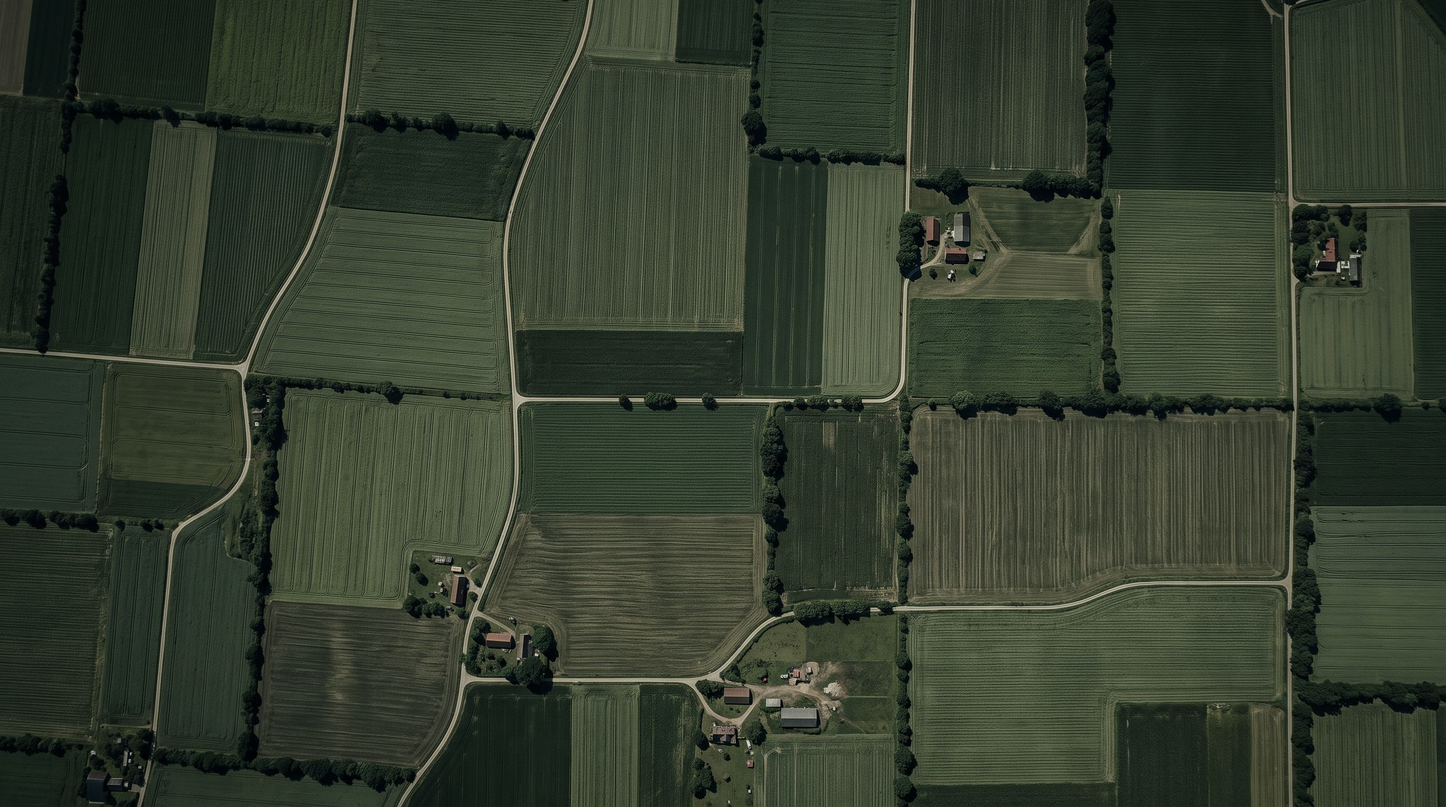
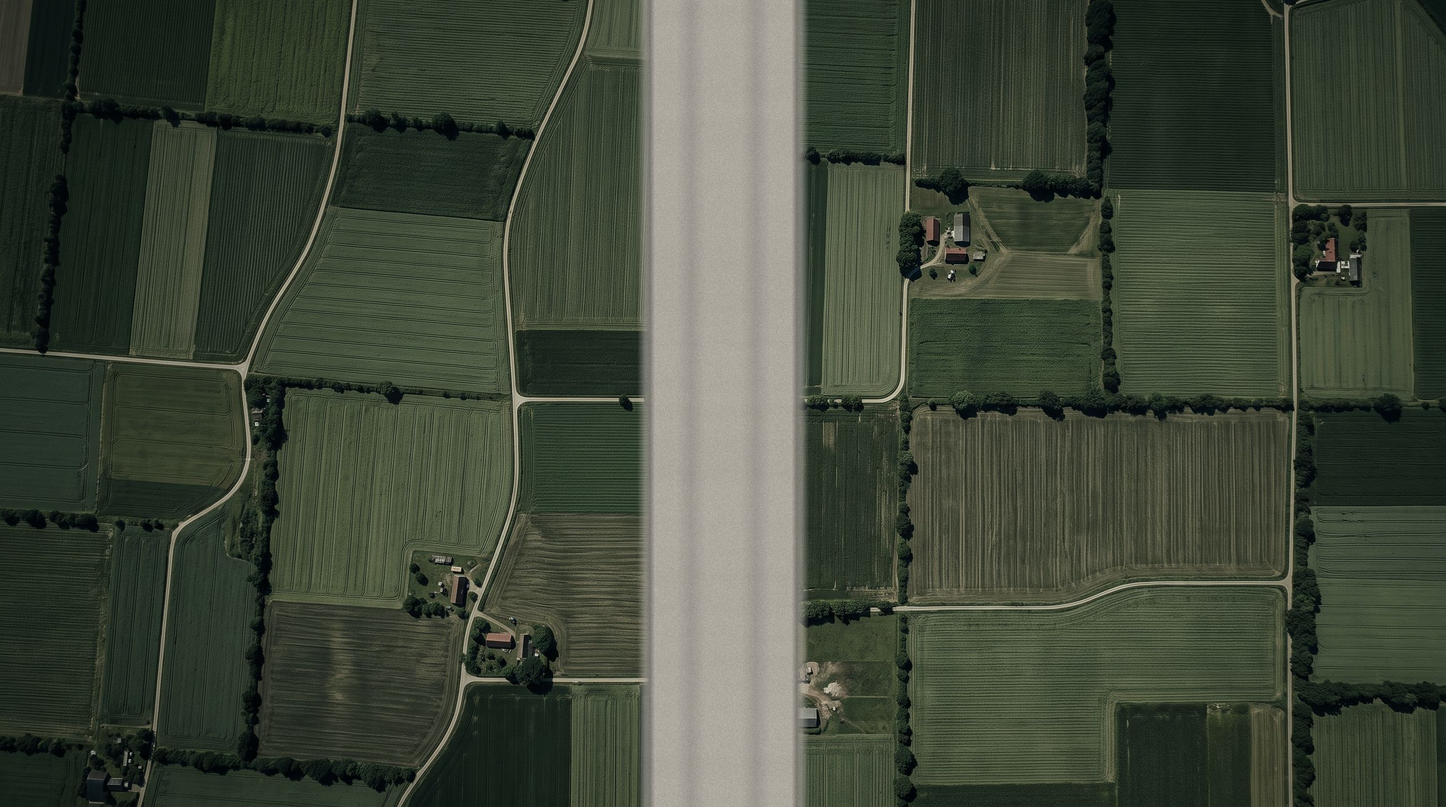
Field gets a centre road; the truck drives off-screen before the plane
Owner feedback on the road-to-flight handoff: the truck should arrive
at the field onto an actual road and exit by driving off the bottom
edge of the screen - a physical exit, not the previous shrink-and-fade
- with the plane entering only after it is gone.

- bg-field regenerated with a pale rural road painted down the centre:
  sampled dirt-road palette, soft shoulders, worn edge lines, lane
  wear, length-wise streaks; 260px in image space so it renders wider
  than the truck at every viewport's object-cover scale.
- Road timeline exit: the truck drifts onto the road (re-centring from
  the edge lane on phones), then accelerates off the bottom (y ->
  1.3vh). No scale, no fade.
- The plane's flight timeline starts at 0.3 instead of 0, after the
  truck's exit.

Claude-Session: https://claude.ai/code/session_01G2JM1kbdt8iWXUfhFCxfh9

Changed region(s): [[0.4375, 0.0, 0.5625, 1.0]]

diff --git a/src/components/JourneyLayers.tsx b/src/components/JourneyLayers.tsx
@@ -66,6 +66,8 @@ export function JourneyLayers() {
     // and the road starts here, so the element never jumps.
     const driveY = () => 0.3 * vh();
 
+    const narrow = () => window.innerWidth < 768;
+
     const context = gsap.context(() => {
       gsap.set(truck.current, { xPercent: -50, transformOrigin: "50% 50%" });
       gsap.set(plane.current, { xPercent: -50 });
@@ -77,8 +79,6 @@ export function JourneyLayers() {
         const face = document.getElementById("face-zoom");
         const flash = document.getElementById("reveal-flash");
         const groundRoll = document.getElementById("reveal-ground-roll");
-
-        const narrow = () => window.innerWidth < 768;
 
         // 140%, not more — the owner flagged the section-2-to-Order stretch
         // as a long scroll where nothing happens. Keep this tight.
@@ -209,12 +209,25 @@ export function JourneyLayers() {
             { y: () => 0.38 * vh(), ease: "none", duration: 0.85, immediateRender: false },
             0,
           )
-          // The handoff: the camera keeps rising, the truck shrinks away,
-          // and the flight zone's field + plane take over.
+          // Arriving at the field: on phones the truck drifts from its edge
+          // lane onto the road painted down the field's centre (no-op on
+          // desktop, where the lane IS the centre)...
           .to(
             truck.current,
-            { scale: 0.55, autoAlpha: 0, ease: "power1.in", duration: 0.15 },
-            0.85,
+            {
+              x: () => (narrow() ? -0.35 * window.innerWidth : 0),
+              ease: "power1.inOut",
+              duration: 0.08,
+            },
+            0.76,
+          )
+          // ...then drives OFF THE BOTTOM EDGE of the screen — a physical
+          // exit, not a fade (owner: "it comes out of the screen"). The
+          // plane only enters after it is gone.
+          .to(
+            truck.current,
+            { y: () => 1.3 * vh(), ease: "power1.in", duration: 0.16 },
+            0.84,
           );
       }
 
@@ -275,18 +288,20 @@ export function JourneyLayers() {
           },
         });
         flight
+          // Enters at 0.3, not 0 — the truck must first drive off the bottom
+          // of the screen (see the road timeline); only then the plane.
           .fromTo(
             plane.current,
             { y: () => -0.5 * vh(), autoAlpha: 0 },
-            { y: () => 0.18 * vh(), autoAlpha: 1, ease: "power1.out", duration: 0.18 },
-            0,
+            { y: () => 0.18 * vh(), autoAlpha: 1, ease: "power1.out", duration: 0.15 },
+            0.3,
           )
-          .to(plane.current, { y: () => 0.5 * vh(), ease: "none", duration: 0.64 }, 0.18)
+          .to(plane.current, { y: () => 0.5 * vh(), ease: "none", duration: 0.4 }, 0.45)
           // gone BEFORE the closing form arrives — the form stands alone
           .to(
             plane.current,
-            { y: () => 0.85 * vh(), autoAlpha: 0, ease: "power1.in", duration: 0.18 },
-            0.82,
+            { y: () => 0.85 * vh(), autoAlpha: 0, ease: "power1.in", duration: 0.15 },
+            0.85,
           );
 
         // Gentle lateral wander — planes never fly a pixel-straight line.

diff --git a/CLAUDE.md b/CLAUDE.md
@@ -112,8 +112,12 @@ centre through Order, Ledger, Pipeline and Journey — all four are light
 two-column sections with an empty centre lane (Beat 4's old dark pinned stage
 sequence is gone per the owner's direction; its images stay in public/media).
 The truck's y is identical at the reveal's end and the road's start, so the
-handoff is seamless both directions. At the road's end the truck shrinks away
-— the camera keeps rising. **The flight zone** (`#flight-zone`, Beats 6–7): a
+handoff is seamless both directions. At the road's end the field (which has
+a vertical ROAD painted down its centre — regenerate via the grade+road
+script if bg-field changes) fades in, the truck drifts onto that road (on
+phones it also re-centres from its edge lane) and DRIVES OFF THE BOTTOM
+EDGE of the screen — a physical exit, per the owner, never a fade — and
+only then does the plane enter (flight timeline starts at 0.3). **The flight zone** (`#flight-zone`, Beats 6–7): a
 fixed olive-field backdrop with two screen-blended, independently drifting
 cloud layers (one under the plane, one over it) and a top-down plane that
 crosses and fades out before the closing form. Flight-zone content sits in
